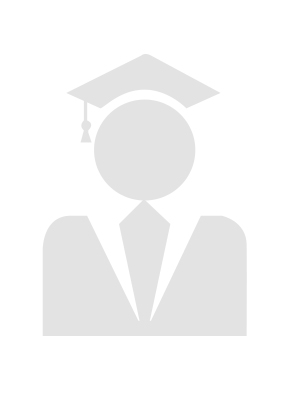
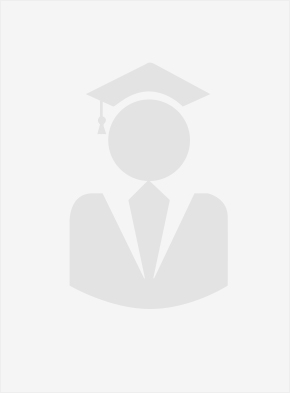
公务员页面 公务员默认头像

diff --git a/anliku/内容页面-公务员.html b/anliku/内容页面-公务员.html
@@ -56,19 +56,21 @@
 
         <!-- 基本信息 -->
         <div class="clearfix">
-          <div class="fl img-wrap"><img src="style/images/gwy-default.jpg" height="156" alt=""></div>
+          <div class="fl">
+              <div class="img-wrap" style="background-image: url(style/images/civil-default_03.jpg);"></div>
+          </div>
           <div class="fr" style="width: 602px;">
             <p class="gwy_name">陈一新</p>
-            <p class="normal">生日：1947年7月</p>
-            <p class="normal">陈一新，男，汉族，1959年9月出生，浙江泰顺人，1982年6月加入中国共产党，1976年7月参加工作，浙江省委党校经济学专业毕业，省委党校研究生学历，研究员。</p>
+            <!-- 职位 -->
+            <p class="normal">中国共产党中央委员会总书记，中共中央军事委员会主席，中华人民共和国主席，中华人民共和国中央军事委员会主席。</p>
           </div>
         </div>
 
         <div class="cell">
           <div class="textarea">
             <div class="word_wrap">
-              <p class="normal">总的看，上半年经济形势同我们作出的判断是一致的，仍然是总体平稳、走势分化。今年以来，在错综复杂的国内外形势下，各地区各部门按照中共中央部署，积极适应经济发展新常态，坚持稳中求进工作总基调，经济结构继续优化新动力成长趋势正在加快。</p>
-              <p class="text_from">——１月３日武汉市领导干部大会</p>
+              <!-- 简介 -->
+              <p class="normal">习近平，男，汉族，1953年6月生，陕西富平人，1969年1月参加工作，1974年1月加入中国共产党，清华大学人文社会学院马克思主义理论与思想政治教育专业毕业，在职研究生学历，法学博士学位。</p>
             </div>
           </div>
         </div>

diff --git a/anliku/style/css/layout.css b/anliku/style/css/layout.css
@@ -1235,8 +1235,13 @@ a:hover li {
 .gwyxq .content_right {
 	width: 400px;
 }
-.gwyxq .img-wrap img {
-
+.gwyxq .img-wrap {
+	width: 105px;
+	height: 143px;
+	display: inline-block;
+	background-repeat: no-repeat;
+	background-size: contain;
+	background-position: center;
 }
 .gwyxq .gwy_name {
 	font-size: 16px;
@@ -1255,7 +1260,7 @@ a:hover li {
 }
 .gwyxq .cell .textarea {
 	border: 1px solid #eee;
-	padding: 15px 20px;
+	padding: 20px 15px;
 	box-sizing: border-box;
 	margin-top: 33px;
 }
